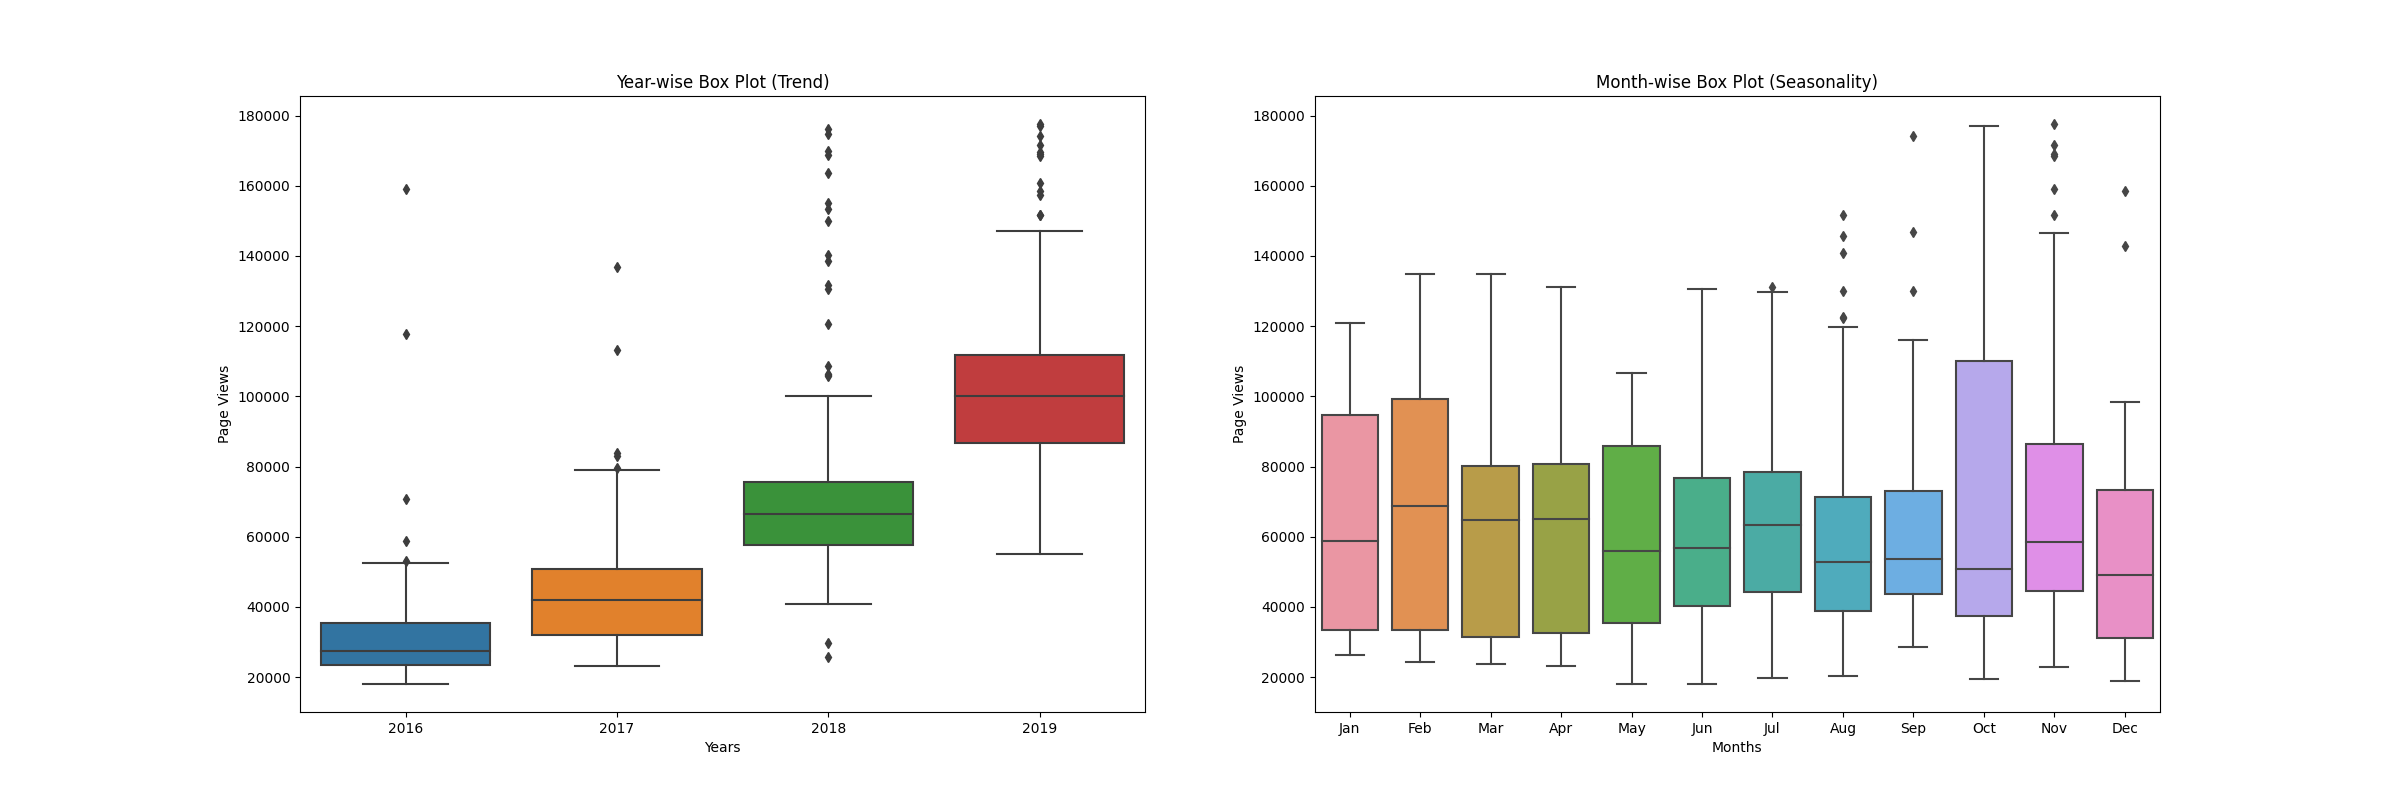
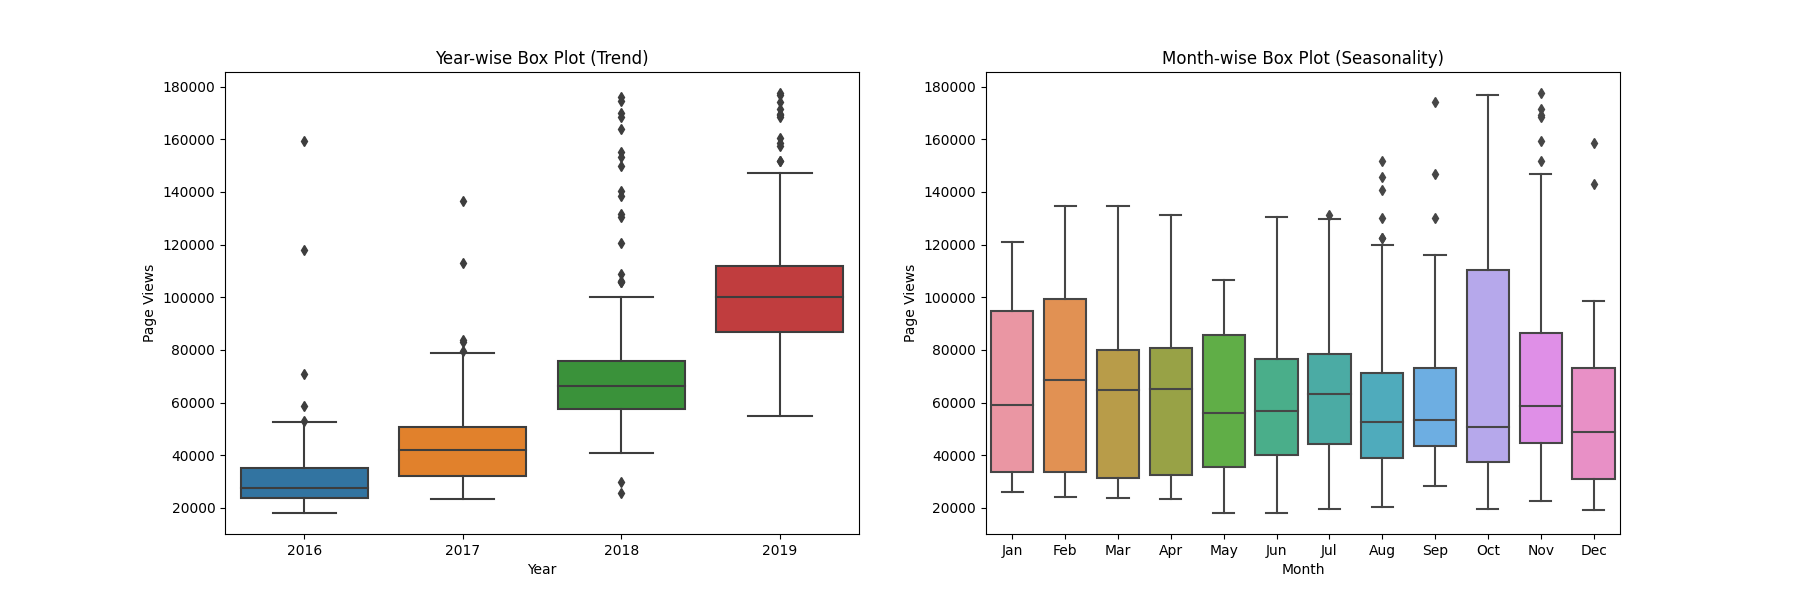
The project is done!. A few changes in the box plot size

diff --git a/time_series_visualizer.py b/time_series_visualizer.py
@@ -56,10 +56,10 @@ def draw_box_plot():
 
     # Draw box plots (using Seaborn)
     #-------First box plot-------
-    fig, ax = plt.subplots(1, 2, figsize = (24, 8))
+    fig, ax = plt.subplots(1, 2, figsize = (18, 6))
     plt.subplot(1, 2, 1)
     sns.boxplot(x = 'year', y = 'value', data = df_box)
-    plt.xlabel('Years')
+    plt.xlabel('Year')
     plt.ylabel('Page Views')
     plt.title('Year-wise Box Plot (Trend)')
 
@@ -68,7 +68,7 @@ def draw_box_plot():
     order = ["Jan", "Feb", "Mar", "Apr", "May", "Jun",
             "Jul", "Aug", "Sep", "Oct", "Nov", "Dec"]
     sns.boxplot(x = 'month', y = 'value', data = df_box, order = order)
-    plt.xlabel('Months')
+    plt.xlabel('Month')
     plt.ylabel('Page Views')
     plt.title('Month-wise Box Plot (Seasonality)')
 
